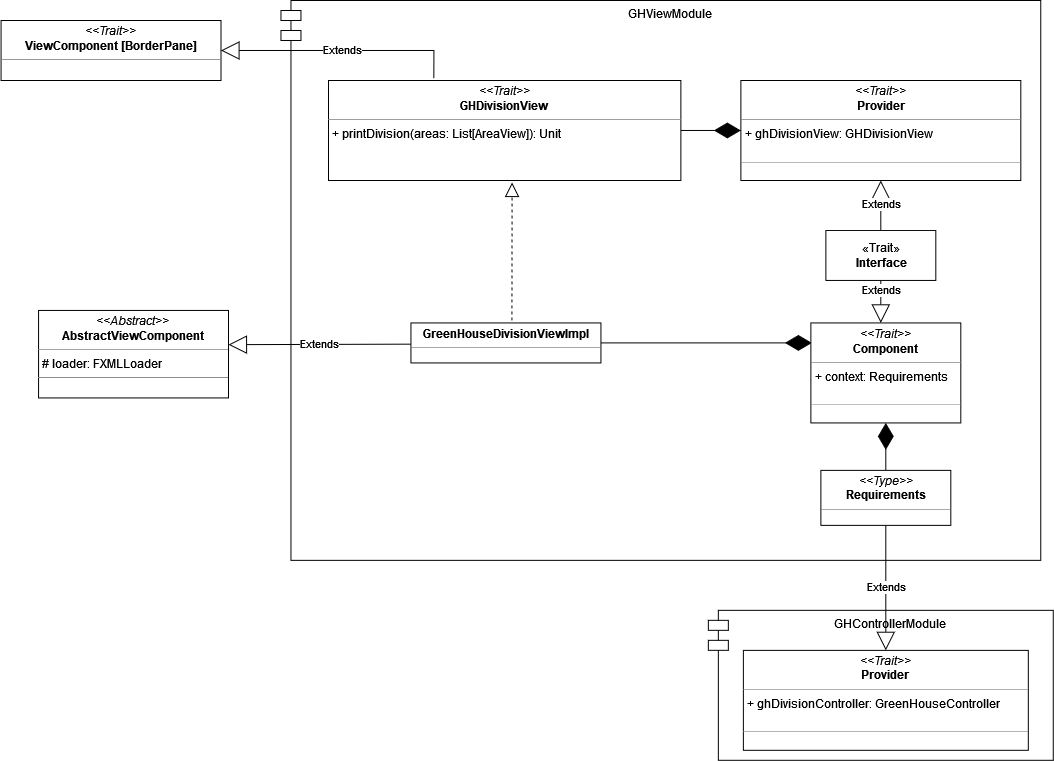
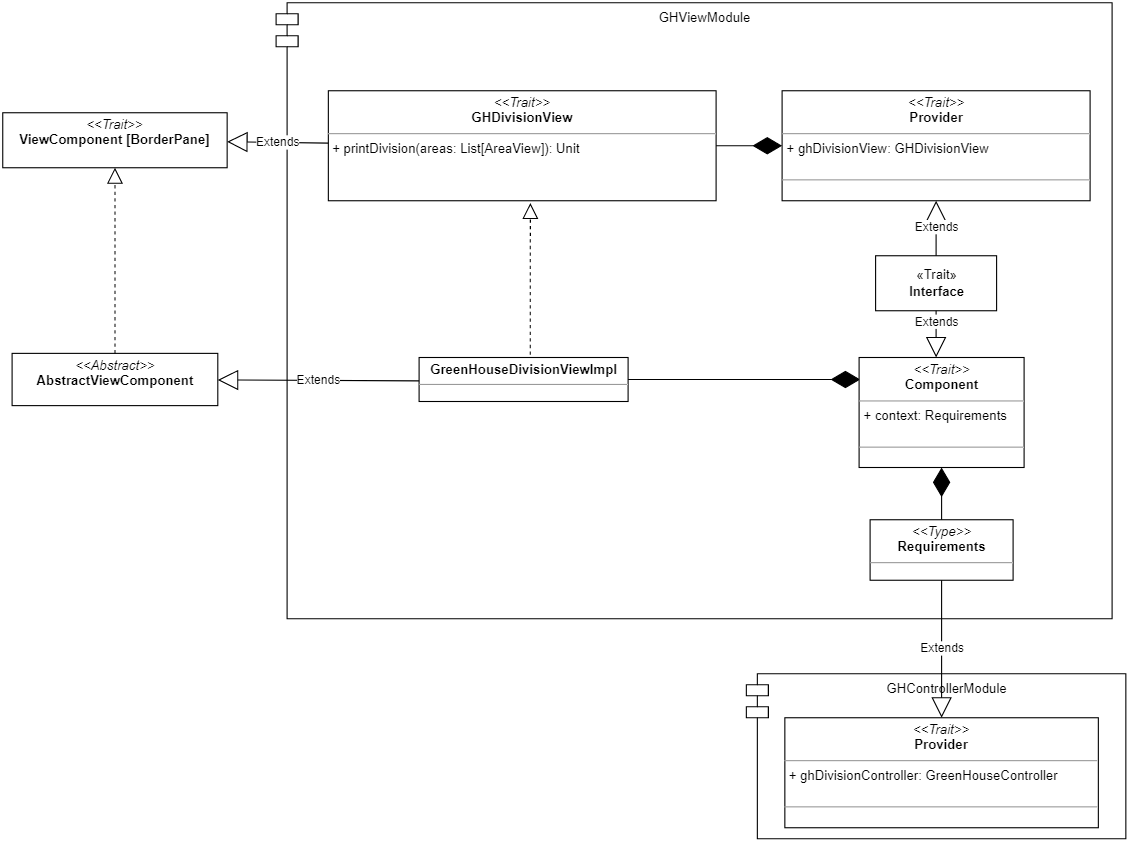
docs: update view component and images

Changed region(s): [[0.0, 0.0, 1.0, 1.0], [0.0, 0.3929, 0.334, 0.4836], [0.3643, 0.4231, 0.5769, 0.4836]]

diff --git a/docs/04_detail_design.md b/docs/04_detail_design.md
@@ -51,9 +51,9 @@ I componenti, descritti nelle successive sottosezioni, fattorizzano elementi com
 ### ViewComponent
 `ViewComponent` è un’interfaccia generica che rappresenta un componente della View e, come si può vedere dalla figura (vedi [Fig. 4.1.1]), richiede che il tipo generico `A` sia sottotipo di `Parent`. Quest'ultimo è la classe base dei nodi con figli di _JavaFx_. 
 
-Per l’implementazione di `ViewComponent` si è rispettato il pattern _Template Method_, definendo una classe astratta `AbstractViewComponent` dove è contenuto il template dei componenti. In tale classe viene incapsulata la logica necessaria per il caricamento dei layout e per la loro inizializzazione, lasciando alle sottoclassi la definizione del rispettivo componente interno associato al file _FXML_.
+Per l’implementazione di `ViewComponent` si è rispettato il pattern _Template Method_, definendo una classe astratta `AbstractViewComponent` dove è contenuto il template dei componenti. In tale classe viene incapsulata la logica necessaria per il caricamento dei layout e per la loro inizializzazione, lasciando alle sottoclassi la definizione del file _FXML_ associato.
 
-Tutte le View estenderanno da tale classe, in modo da creare componenti modulari ed evitare ripetizioni del codice nell’inizializzazione dei layout.
+Tutte le View estenderanno da tale classe, in modo da creare componenti modulari ed evitare ripetizioni del codice nel caricamento dei layout.
 
 <div align="center">
   <img src="img/view_component.png" />
